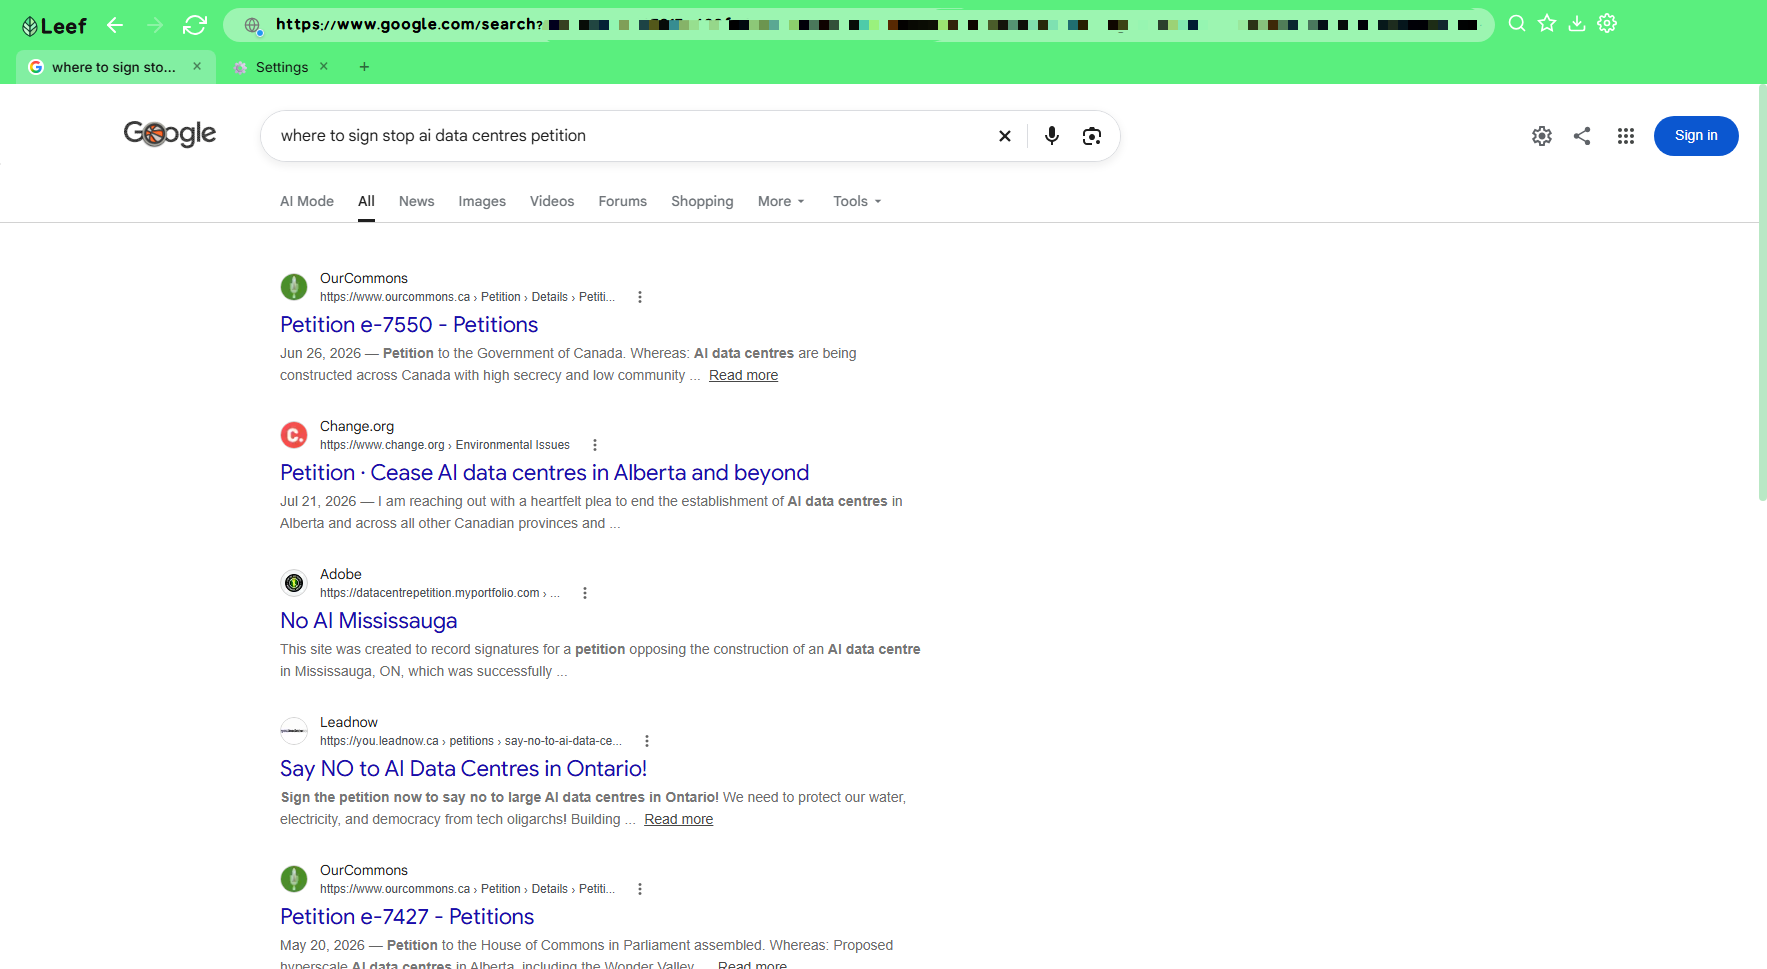
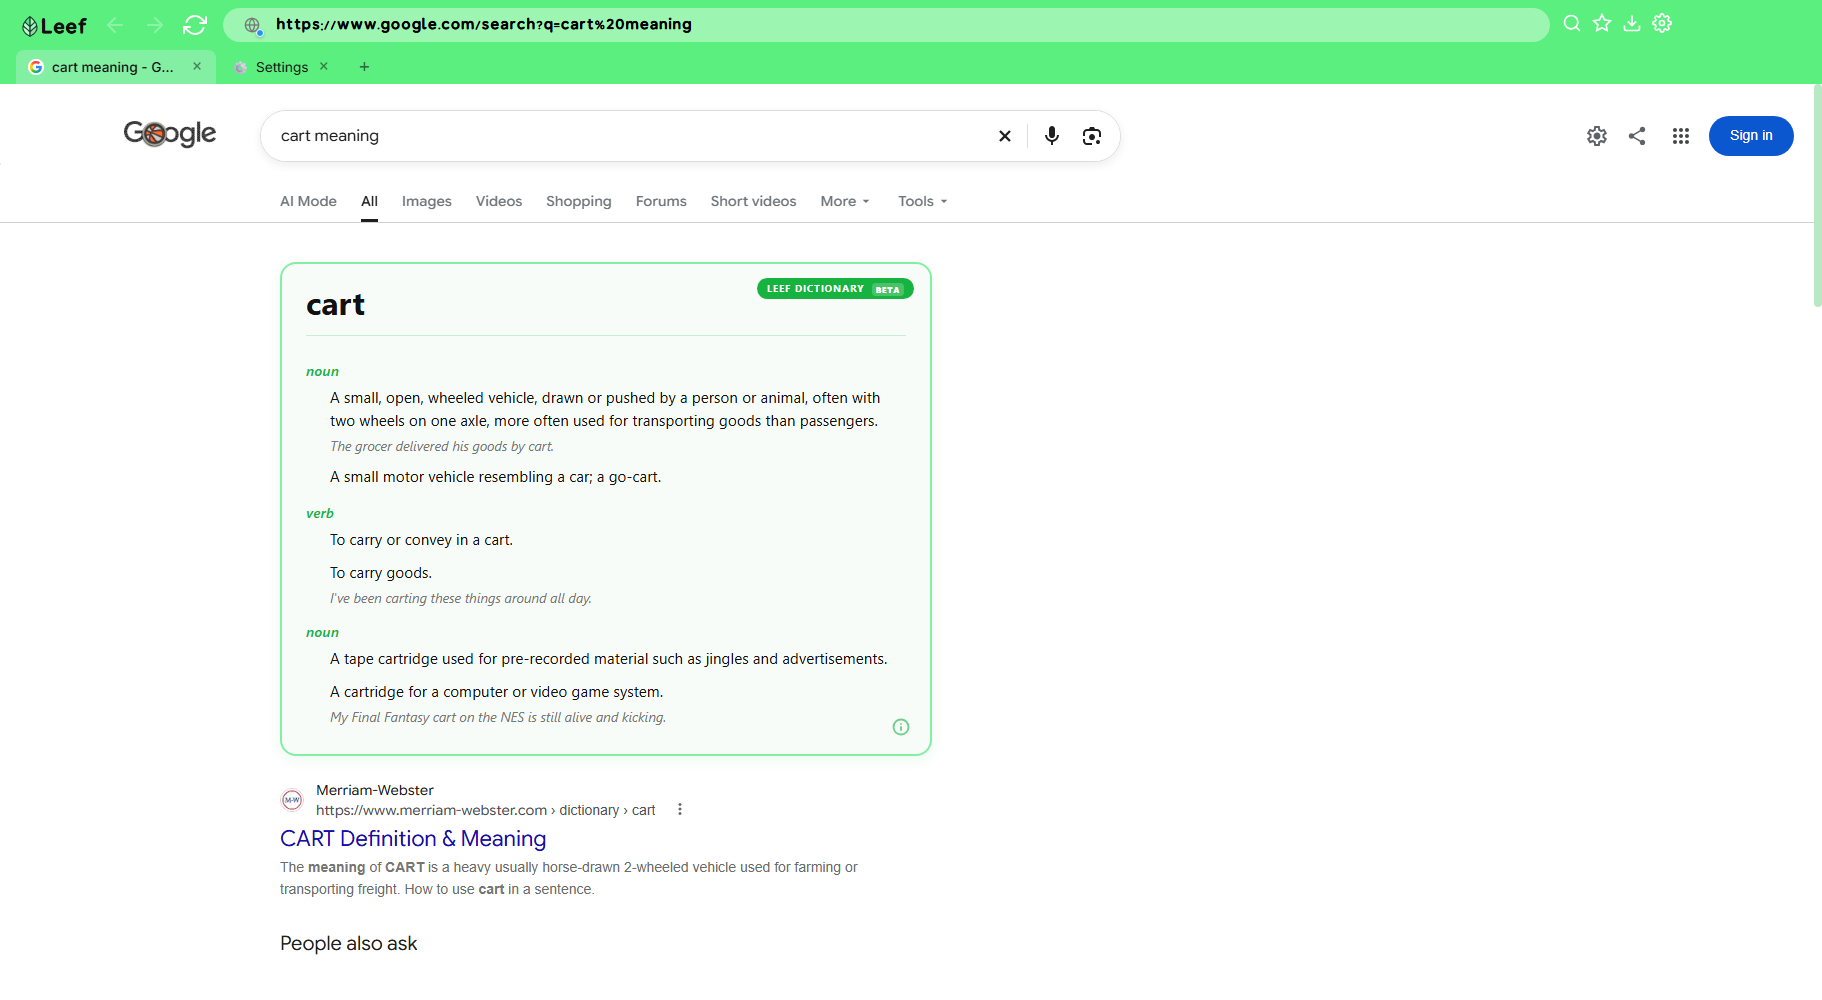
Add before/after AI Overview toggle and updated comparison screenshots

diff --git a/index.html b/index.html
@@ -178,12 +178,19 @@
           <!-- Slide 0 -->
           <div class="carousel-slide active" id="slide-0" role="tabpanel">
             <div class="carousel-frame">
-              <img src="placeholder-clean-search.png" alt="Link-First Search UI Preview" class="carousel-img">
+              <img id="ai-preview-img" src="placeholder-clean-search.png" alt="Link-First Search UI Preview" class="carousel-img">
             </div>
             <div class="carousel-info-strip">
               <div class="carousel-title-col">
                 <span class="carousel-badge">FEATURE 01</span>
                 <h3>Link-First Search &amp; Browsing</h3>
+                <div class="adblock-toggle-wrap" role="group" aria-label="AI Overview Filter State">
+                  <span class="adblock-toggle-label">AI Overviews:</span>
+                  <div class="adblock-toggle-pill">
+                    <button type="button" class="adblock-toggle-btn active" id="btn-ai-off" data-src="placeholder-clean-search.png">OFF (Leef)</button>
+                    <button type="button" class="adblock-toggle-btn" id="btn-ai-on" data-src="search-with-ai-overview.png">ON (Google Default)</button>
+                  </div>
+                </div>
               </div>
               <p class="carousel-desc">Automatic -noai filtering intercepts and removes forced AI Overviews, giving you clean, direct web results every time you search.</p>
             </div>
@@ -1142,7 +1149,7 @@
     </div>
   </footer>
 
-  <script src="script.js?v=1.2.2"></script>
+  <script src="script.js?v=1.2.3"></script>
 </body>
 
 </html>

diff --git a/script.js b/script.js
@@ -126,6 +126,25 @@ document.addEventListener('DOMContentLoaded', () => {
       });
     }
 
+    // Slide 0 AI Overview Toggle (OFF / ON)
+    const aiImg = document.getElementById('ai-preview-img');
+    const btnAiOff = document.getElementById('btn-ai-off');
+    const btnAiOn = document.getElementById('btn-ai-on');
+
+    if (aiImg && btnAiOff && btnAiOn) {
+      btnAiOff.addEventListener('click', () => {
+        aiImg.src = btnAiOff.getAttribute('data-src');
+        btnAiOff.classList.add('active');
+        btnAiOn.classList.remove('active');
+      });
+
+      btnAiOn.addEventListener('click', () => {
+        aiImg.src = btnAiOn.getAttribute('data-src');
+        btnAiOn.classList.add('active');
+        btnAiOff.classList.remove('active');
+      });
+    }
+
     // Slide 2 Ad Blocker Toggle (With / Without Ads)
     const adblockImg = document.getElementById('adblock-preview-img');
     const btnAdblockOn = document.getElementById('btn-adblock-on');
